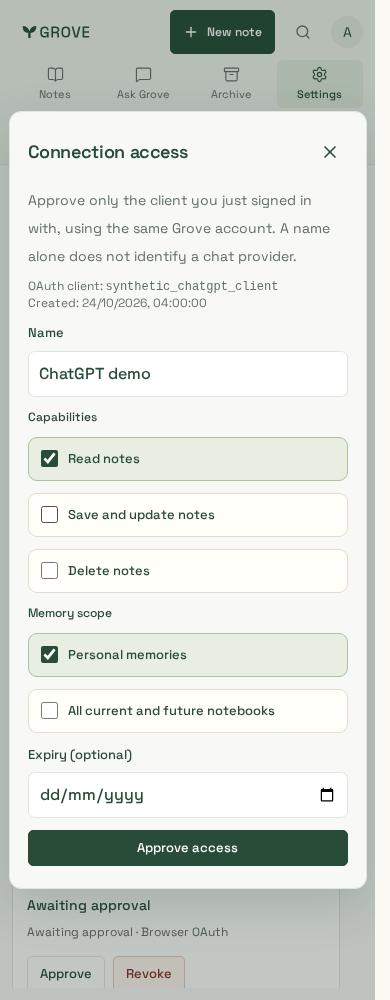
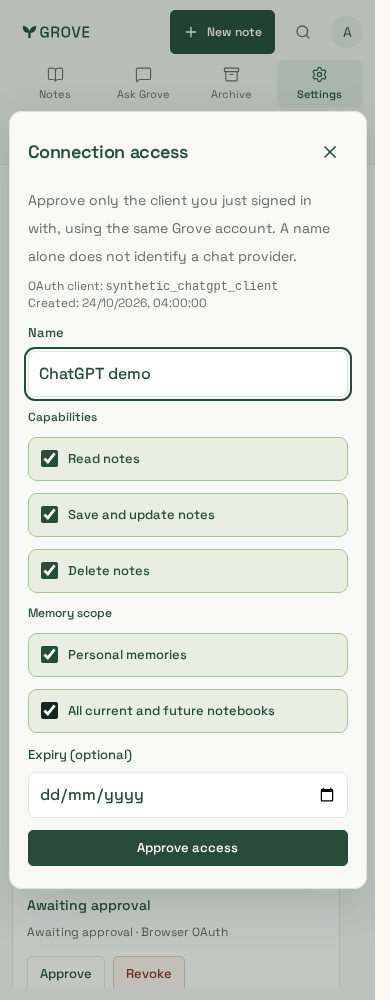
docs(connections): refresh selected-default guidance and captures

diff --git a/documentation/design/screenshots/hosted-chat/README.md b/documentation/design/screenshots/hosted-chat/README.md
@@ -1,10 +1,9 @@
 # Hosted chat setup — reviewed captures
 
-Captured and visually reviewed on 24 October 2026. Application files match
-`7e0a272` (backend `61fa285`). The production Next.js build
-`JxNQer6QAGO5JqCZnFp2f` was made with those UI files before their commit;
-its build metadata therefore names the earlier backend commit. No runtime file
-changed between that build, these captures and the UI commit.
+Captured and visually reviewed on 24 October 2026 from application source
+`b4bef29`, Next.js build `vI3Hq9RgfG4-_xsrmT5bU`. The phone capture reflects the
+owner's revised new-connection defaults: every permission/scope checkbox selected.
+Existing connection choices remain unchanged.
 
 Local Node 24.21.0 / pnpm 10.33.0 / Playwright 1.64.1 Chromium. Marketing uses
 the real production-built `/install` route; Connections uses actual application
@@ -13,23 +12,23 @@ are synthetic. No live credentials, private notes, provider consent or real host
 tool results appear in these images. Cookie notices were dismissed through their
 normal controls, and tab transitions completed before capture; images are unedited.
 
-| Capture                                    | Viewport / crop                     | Scenario                                                                                  |
-| ------------------------------------------ | ----------------------------------- | ----------------------------------------------------------------------------------------- |
-| [ChatGPT](chatgpt-desktop.png)             | 1440×1100; setup-step crop 1184×544 | Hosted URL, OAuth/DCR steps, separate Grove approval and honest automation limits.        |
-| [Claude web](claude-web-desktop.png)       | 1440×1100; setup-step crop 1184×544 | Distinct web connector instructions, separate from Claude Code.                           |
-| [Pending connections](pending-desktop.png) | 1440×1100                           | Two unapproved clients identified by ID/creation time; no note access; explicit refresh.  |
-| [Phone approval](approval-phone.png)       | 390×1000                            | Exact-client context and read-only Personal review; write/delete/all-notebook access off. |
+| Capture                                    | Viewport / crop                     | Scenario                                                                                               |
+| ------------------------------------------ | ----------------------------------- | ------------------------------------------------------------------------------------------------------ |
+| [ChatGPT](chatgpt-desktop.png)             | 1440×1100; setup-step crop 1184×544 | Hosted URL, OAuth/DCR steps, separate Grove approval and honest automation limits.                     |
+| [Claude web](claude-web-desktop.png)       | 1440×1100; setup-step crop 1184×544 | Distinct web connector instructions, separate from Claude Code.                                        |
+| [Pending connections](pending-desktop.png) | 1440×1100                           | Two unapproved clients identified by ID/creation time; no note access; explicit refresh.               |
+| [Phone approval](approval-phone.png)       | 390×1000                            | Exact-client context with read/write/delete, Personal and all-notebook checkboxes selected by default. |
 
 Install and approval checks pass WCAG A/AA/2.1AA and no-horizontal-overflow at
-1440/390/320px. All 232 Chromium scenarios and the 10 focused iPhone/WebKit
+1440/390/320px. All 233 Chromium scenarios and the 11 focused iPhone/WebKit
 connection scenarios pass. WebKit ran in the Playwright 1.64.1 Noble container;
 this is browser emulation, not physical-device or real-host acceptance.
 
 ## Preview
 
-| ChatGPT setup                                              | Phone approval                                                |
-| ---------------------------------------------------------- | ------------------------------------------------------------- |
-| ![ChatGPT URL and browser-only setup](chatgpt-desktop.png) | ![Read-only Personal approval on a phone](approval-phone.png) |
+| ChatGPT setup                                              | Phone approval                                                                          |
+| ---------------------------------------------------------- | --------------------------------------------------------------------------------------- |
+| ![ChatGPT URL and browser-only setup](chatgpt-desktop.png) | ![New connection with all permission and scope checkboxes selected](approval-phone.png) |
 
 Additional captures:
 

diff --git a/documentation/delivery.md b/documentation/delivery.md
@@ -8,16 +8,22 @@ pending-client refresh/approval. A denied remote tool links the exact authentica
 connection instead of restarting OAuth. Approval forms identify the client and
 carry a row-locked state fingerprint: newer scope edits/revocation reject stale
 reviews, while normal last-contact updates do not. No new tool, migration, secret,
-source label or permission expansion is introduced; existing clients remain compatible.
+or source label is introduced. At the owner's request, new connection forms and
+native proposals select all action/scope checkboxes, including deletion and all
+notebooks; users can narrow them before approving. Existing grants retain saved
+choices, and sign-in alone still grants no note access.
 
 Root/site lint, types and production builds, **346 backend tests** (four optional
-S3/broker skips), **nine packed artifacts**, **all 232 Chromium cases**, **10 focused
+S3/broker skips), **nine packed artifacts**, **all 233 Chromium cases**, **11 focused
 iPhone/WebKit cases**, three native hosts and bundle budgets pass. The backend
 guidance and stale-review cases were verified failing before implementation.
 Fifty CI/release/deployment contracts, pinned workflow lint and the API Docker build
 also pass. Notes entry is **489,087 gzip bytes**, with the editor still deferred.
 [Four reviewed captures](design/screenshots/hosted-chat/README.md) cover desktop
 and phone, with WCAG A/AA and 320/390/1440px overflow checks.
+The all-selected-default follow-up retains explicit narrowed/retry/resume tests;
+its compact native permission summary keeps the primary action entirely visible
+at 320×640 in both engines without hiding permissions or loosening the assertion.
 
 Real ChatGPT and Claude inspected the current public endpoint's OAuth discovery
 and selected DCR; CIMD is not advertised. No new connection/consent, provider

diff --git a/documentation/hosted-chat.md b/documentation/hosted-chat.md
@@ -55,9 +55,11 @@ tool catalog while approval is pending, but note tool calls remain denied.
    client ID. A user-chosen name is not proof that a connection belongs to a provider.
    If several entries are ambiguous, do not guess or approve them all.
 3. Select **Approve**, name the connection, and review its permissions. New
-   connections start with **Read notes**, **Save and update notes**, **Personal**,
-   no selected notebooks and **Delete notes off**. Read-only also works. Existing
-   grants retain their choices; notebook nesting does not inherit permissions.
+   connections start with every permission and scope checkbox selected:
+   **Read notes**, **Save and update notes**, **Delete notes**, **Personal** and
+   **All current and future notebooks**. Uncheck any access you do not want before
+   approving. Read-only and selected-notebook access still work. Existing grants
+   retain their saved choices; notebook nesting does not inherit permissions.
 4. Approve, return to the host, and retry. Website approval alone does not prove
    the host is working: complete the synthetic save/recall check below.
 
@@ -98,7 +100,7 @@ labels are not authenticated host identities.
 - Hosted OAuth cannot administer account credentials, public sharing or notebook
   subtrees, or read Grove's saved chat history. A listed owner-only tool still
   refuses the call. Notebook creation needs explicitly granted all-notebook write
-  access; it is not enabled by the Personal default.
+  access. Uncheck all-notebook access if you do not want to allow it.
 - Agent-initiated saves must use `capture: automatic`; requested saves use
   `explicit`. Grove's server preferences still apply. A local coding-agent pause
   or environment variable is not a hosted-chat privacy control.

diff --git a/documentation/client.md b/documentation/client.md
@@ -26,9 +26,10 @@ single installed agent or offers a terminal choice. Use `connect opencode`,
 `connect claude` or `connect codex` to select explicitly, including in scripts.
 The command selects Cloud automatically, reuses valid credentials, and opens
 account creation or sign-in if needed. The same browser continues to a contextual
-approval page. Defaults are reading/saving personal and current-project memories,
-with deletion off; **Customize access** changes actions, scope, name or
-expiry. Approval creates/links the project without granting all-project access.
+approval page. New connections propose all permission and scope checkboxes selected:
+read/save/delete, Personal and all current/future notebooks. Review and uncheck
+unwanted access under **Customize access** before approving. Existing connections
+preserve their saved choices. Approval can also create/link the current project.
 
 Leave the terminal open. It waits up to ten minutes for approval, checks the effective
 grant, performs a bounded read when permitted, and installs the native integration.

diff --git a/documentation/cloud-onboarding.md b/documentation/cloud-onboarding.md
@@ -30,8 +30,10 @@ and returns to the pending setup. Fresh `grove login` defaults to Cloud.
    client/connection IDs, and an approval URL containing only the attempt UUID.
 4. The loopback OAuth callback redirects the same browser to `/app/connect/:id`.
    Clerk preserves this destination through website sign-in/sign-up. The page shows
-   the agent, repository and proposed access. Defaults for a new connection are
-   read/write, personal + current project, no deletion. Existing grants
+   the agent, repository and proposed access. All permission and scope checkboxes
+   are selected for a new connection: read/write/delete, Personal and all current
+   and future notebooks, including the current project. The user can uncheck them
+   before approving. Existing grants
    are preserved when adding a project. Customization exposes name, actions,
    selected/all projects and optional expiry.
 5. Owner-session `POST /v1/connect/:id/approve` takes the grant plus `currentProject`.

diff --git a/documentation/development/testing.md b/documentation/development/testing.md
@@ -14,7 +14,10 @@ competing approvals and preserve a review across ordinary contact updates.
 After a production website build, `hosted-chat.spec.ts` and `connect.spec.ts` cover
 web/native setup separation, endpoint copy/manual fallback, storage-disabled
 selection, pending-client refresh, exact-client approval, narrowed retry and
-responsive accessibility. Run the hosted subset in supported iPhone/WebKit too.
+responsive accessibility. New OAuth/API-key/native forms select all action/scope
+checkboxes; existing connections and narrowed resumed approvals retain their
+choices. Tests explicitly narrow a new proposal before exercising denied writes.
+Run the hosted subset in supported iPhone/WebKit too.
 Use synthetic notes and the actual components; only save relevant reviewed captures.
 
 ```sh
